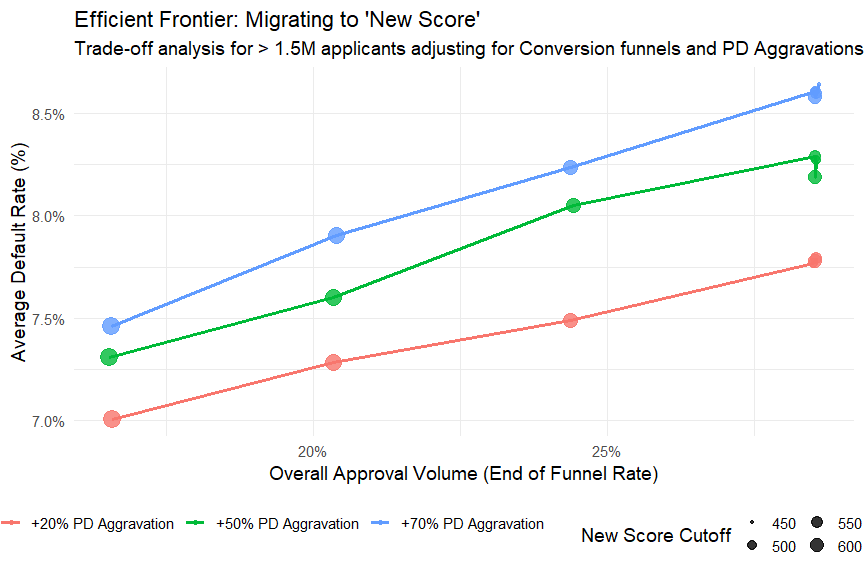
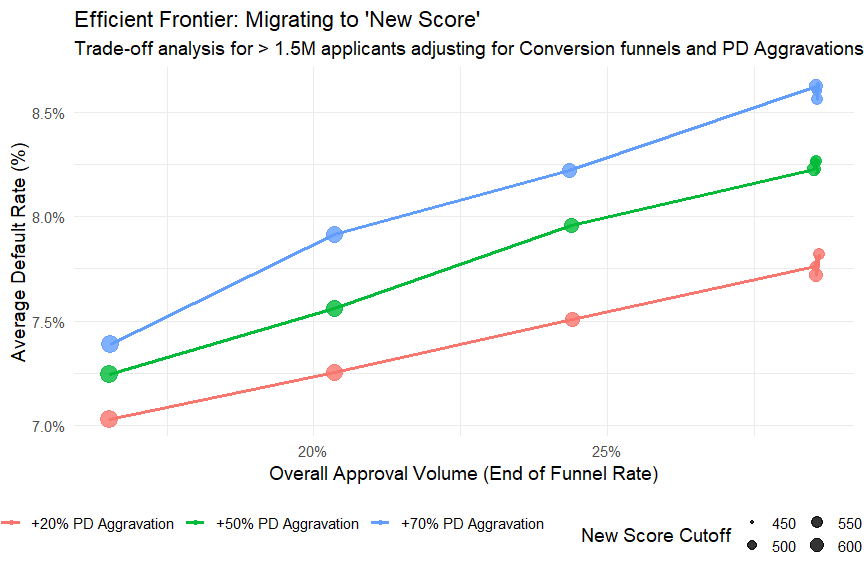
chore: install mock and final rendering

diff --git a/README.md b/README.md
@@ -148,12 +148,12 @@ head(tradeoff_results)
 #> # A tibble: 6 x 4
 #>   new_score_cutoff aggravation_factor approval_rate default_rate
 #>              <dbl>              <dbl>         <dbl>        <dbl>
-#> 1              450                1.2         0.286       0.0778
-#> 2              450                1.5         0.286       0.0826
-#> 3              450                1.7         0.286       0.0864
-#> 4              500                1.2         0.285       0.0777
-#> 5              500                1.5         0.286       0.0827
-#> 6              500                1.7         0.285       0.0861
+#> 1              450                1.2         0.286       0.0780
+#> 2              450                1.5         0.286       0.0821
+#> 3              450                1.7         0.286       0.0863
+#> 4              500                1.2         0.285       0.0776
+#> 5              500                1.5         0.286       0.0826
+#> 6              500                1.7         0.286       0.0860
 ```
 
 ### 4. Visualize the Results
